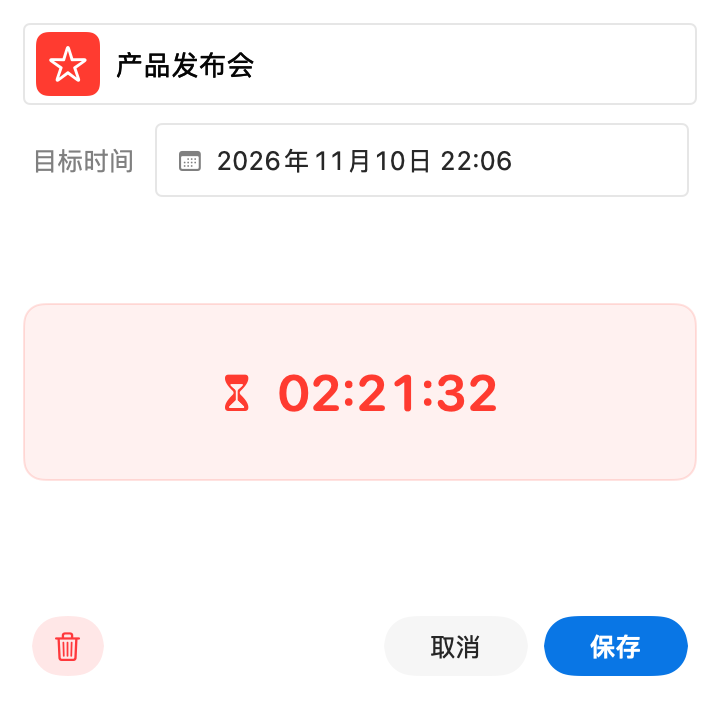
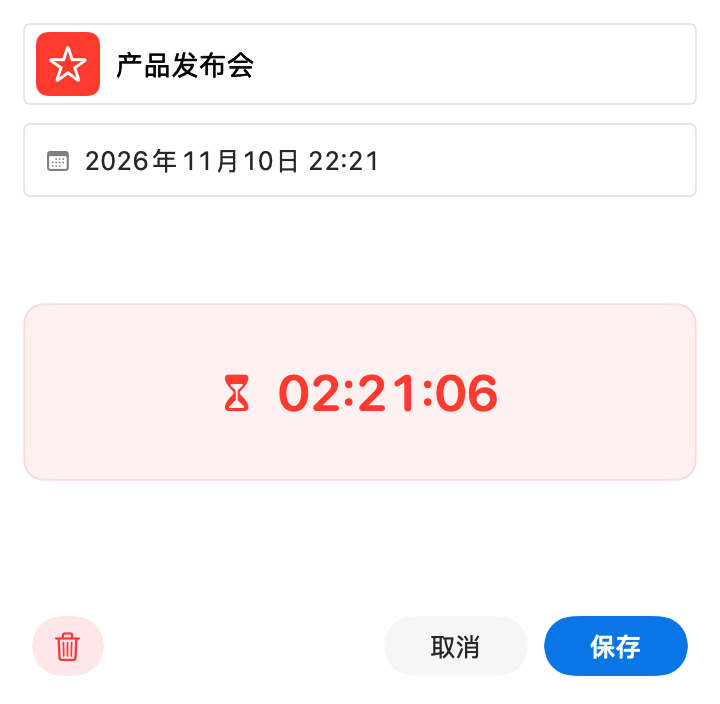
LiteCount 1.0.6: align date field and use 24-hour English time

Changed region(s): [[0.0306, 0.1875, 0.7333, 0.2812], [0.6111, 0.5312, 0.7028, 0.5938], [0.9472, 0.1875, 0.9778, 0.2812]]

diff --git a/Sources/LiteCount/DateTimePickers.swift b/Sources/LiteCount/DateTimePickers.swift
@@ -9,7 +9,13 @@ enum AppFormat {
     }
 
     static func dateTimeText(_ date: Date) -> String {
-        date.formatted(Date.FormatStyle(date: .abbreviated, time: .shortened).locale(locale()))
+        if !L10n.isChinese {
+            let formatter = DateFormatter()
+            formatter.locale = locale()
+            formatter.dateFormat = "MMM d, yyyy HH:mm"
+            return formatter.string(from: date)
+        }
+        return date.formatted(Date.FormatStyle(date: .abbreviated, time: .shortened).locale(locale()))
     }
 
     static func dateText(_ date: Date) -> String {
@@ -17,7 +23,13 @@ enum AppFormat {
     }
 
     static func timeText(_ date: Date) -> String {
-        date.formatted(Date.FormatStyle(date: .omitted, time: .shortened).locale(locale()))
+        if !L10n.isChinese {
+            let formatter = DateFormatter()
+            formatter.locale = locale()
+            formatter.dateFormat = "HH:mm"
+            return formatter.string(from: date)
+        }
+        return date.formatted(Date.FormatStyle(date: .omitted, time: .shortened).locale(locale()))
     }
 }
 

diff --git a/Sources/LiteCount/CountdownListView.swift b/Sources/LiteCount/CountdownListView.swift
@@ -390,18 +390,13 @@ struct CountdownEditor: View {
                 .padding(.horizontal, 12)
                 .padding(.top, 12)
 
-            HStack(spacing: 10) {
-                Text(L10n.targetTime)
-                    .font(.system(size: 13))
-                    .foregroundStyle(Color.liteCountSecondaryText)
-                PopoverField(popoverSize: NSSize(width: 252, height: 444)) {
-                    pickerField(AppFormat.dateTimeText(date), symbol: "calendar")
-                } popoverContent: {
-                    DateTimePickerPopoverView(date: $date)
-                }
+            PopoverField(popoverSize: NSSize(width: 252, height: 444)) {
+                pickerField(AppFormat.dateTimeText(date), symbol: "calendar")
+            } popoverContent: {
+                DateTimePickerPopoverView(date: $date)
             }
             .frame(height: 36)
-            .padding(.horizontal, 16)
+            .padding(.horizontal, 12)
             .padding(.top, 10)
 
             if isPast {

diff --git a/Sources/LiteCount/Strings.swift b/Sources/LiteCount/Strings.swift
@@ -37,7 +37,6 @@ enum L10n {
     static var pinPanel: String { text("固定浮窗", "Pin Panel") }
     static var unpinPanel: String { text("取消固定", "Unpin Panel") }
     static var namePlaceholder: String { text("事项名称…", "Item name…") }
-    static var targetTime: String { text("目标时间", "Target") }
     static var chooseIcon: String { text("选择图标", "Choose Icon") }
     static var chooseColor: String { text("选择颜色", "Choose Color") }
     static var pastHint: String { text("目标时间需晚于现在", "Target must be in the future") }

diff --git a/README.md b/README.md
@@ -28,6 +28,8 @@ LiteCount is a native macOS countdown tool. Set a name and a target time, and it
   A single sheet combines a month calendar with hour/minute columns.
 - **紧凑编辑** / **Compact editing** — 新增与编辑面板和列表等尺寸；从名称框左侧选择图标与颜色，目标时间下方直接显示实时倒计时；切换语言保留未保存草稿。
   New and edit panels match the list size. Pick an icon and color from the name field, see a live countdown below the target time, and keep unsaved changes when switching languages.
+- **时间格式** / **Time format** — 中文界面沿用本地化日期时间，英文界面使用与选择器一致的 24 小时制。
+  Chinese keeps its localized date and time; English uses the picker's 24-hour clock.
 - **个性化** / **Personalization** — 上百个系统图标 × 十种精选配色；浅色/深色模式；中/英文界面。
   100+ system icons, 10 curated colors, light/dark modes, Chinese/English UI.
 
@@ -36,8 +38,8 @@ LiteCount is a native macOS countdown tool. Set a name and a target time, and it
 | 浅色面板 / Light | 编辑器 / Editor |
 |---|---|
 | ![浅色面板 / Light panel](docs/images/panel.png) | ![编辑器 / Editor](docs/images/editor.png) |
-| **深色面板 / Dark** | **时间选择器 / Picker** |
-| ![深色面板 / Dark panel](docs/images/panel-dark.png) | ![选择器 / Picker](docs/images/date-picker.png) |
+| **深色面板 / Dark** | **英文编辑器 / English editor** |
+| ![深色面板 / Dark panel](docs/images/panel-dark.png) | ![英文编辑器 / English editor](docs/images/editor-en.png) |
 
 ## 安装 / Install
 

diff --git a/release/v1.0.6/MANIFEST.md b/release/v1.0.6/MANIFEST.md
@@ -1,0 +1,27 @@
+# LiteCount 1.0.6 — MANIFEST
+
+发布时间 / Released: 2026-11-10
+构建 / Build: 1.0.6 (build 17) · ad-hoc 签名，未公证 / ad-hoc signed, not notarized
+
+## 附件 / Attachments
+
+| 文件 / File | 说明 / Purpose |
+|---|---|
+| `LiteCount-1.0.6-macOS-arm64.zip` | 应用包，含 LiteCount.app / App bundle containing LiteCount.app |
+| `SHA256SUMS` | ZIP 的 SHA-256 校验和 / SHA-256 checksum for the ZIP |
+| `MANIFEST.md` | 本清单 / This manifest |
+
+## 校验 / Verification
+
+```bash
+shasum -a 256 -c SHA256SUMS
+unzip -t LiteCount-1.0.6-macOS-arm64.zip
+```
+
[1 lines of base64/hex data omitted]
+- 解压后 App 版本：1.0.6 (build 17)；Bundle ID：`io.github.victor-zhang-2026.litecount`
+
+## 变更摘要 / Summary
+
+- 日期时间选择框与名称框对齐，英文时间改用 24 小时制。
+- Aligned date and name fields, with 24-hour English time display.

diff --git a/release/v1.0.6/RELEASE_NOTES.md b/release/v1.0.6/RELEASE_NOTES.md
@@ -1,0 +1,20 @@
+# LiteCount 1.0.6 发布说明 / Release notes
+
+日期 / Date: 2026-11-10
+构建 / Build: 1.0.6 (build 17)
+平台 / Platform: macOS 14+ · Apple Silicon (arm64)
+签名 / Signature: ad-hoc（未公证 / not notarized）
+
+## 变更 / Changes
+
+- 新增与编辑界面移除“目标时间 / Target”标签，让日期时间选择框和名称框对齐。
+- 英文日期时间采用 24 小时制，和选择器一致，不再显示 AM/PM。
+
+- Removed the Target label from new and edit views so the date field aligns with the name field.
+- English date and time now use a 24-hour clock matching the picker, without AM/PM.
+
+## 附件 / Attachments
+
+- `LiteCount-1.0.6-macOS-arm64.zip` — 应用包 / app bundle
+- `SHA256SUMS` — ZIP 校验和 / checksum
+- `MANIFEST.md` — 清单与校验说明 / manifest

diff --git a/CHANGELOG.md b/CHANGELOG.md
@@ -1,5 +1,12 @@
 # Changelog
 
+## 1.0.6 — 2026-11-10
+
+- 新增与编辑界面移除“目标时间 / Target”标签，日期时间选择框与名称框对齐。
+- 英文日期时间改为 24 小时制显示，与选择器一致，不再显示 AM/PM。
+- Removed the Target label from new and edit views so the date field aligns with the name field.
+- English date and time now use a 24-hour display, matching the picker without AM/PM.
+
 ## 1.0.5 — 2026-11-10
 
 - 新增与编辑面板统一为列表的 360×352 尺寸；名称框左侧可选择图标和颜色，日期时间下方直接显示实时倒计时。
